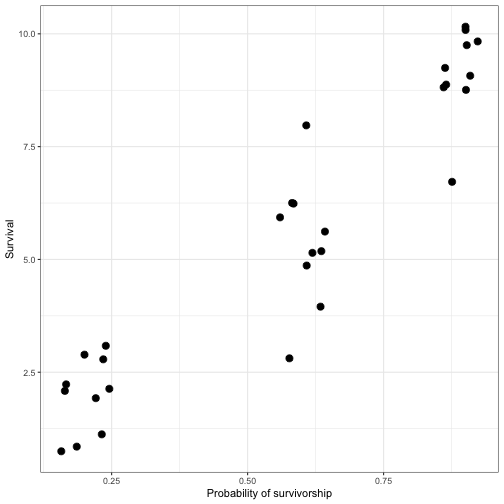
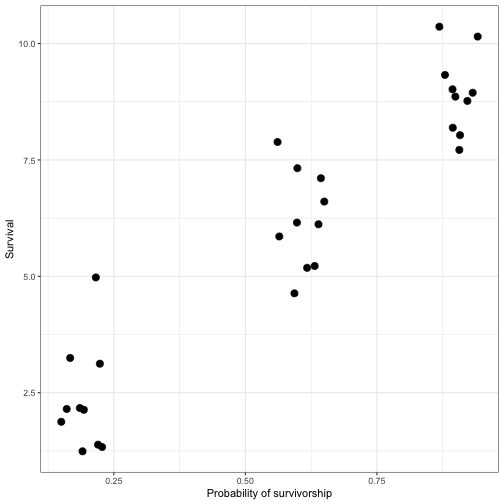
updating Bayes slides

diff --git a/Bayes.html b/Bayes.html
@@ -373,6 +373,45 @@ This is the probability of acceptance. In other words, if the ratio is better al
 * **Discussion question**: why should we accept "worse" parameter values? Why is it good to sometimes stay in the same place? 
 
 ---
+class: center 
+# Visualizing
+
+&lt;img src="Bayes_files/figure-html/unnamed-chunk-6-1.png" width="504" /&gt;
+
+---
+class: center 
+
+# Visualizing
+
+&lt;img src="Bayes_files/figure-html/unnamed-chunk-7-1.png" width="504" /&gt;
+
+---
+# quick reminder! 
+
+--
+
+* the candidate distribution is not the prior
+
+--
+
+* the candidate distribution is not the prior
+
+--
+
+* the candidate distribution makes new values but it's not the prior, you still have to put the values it produces into the likelihood and the prior
+
+---
+# Now: to math! 
+
+$$
+r = \frac{\text{Likelihood}(\text{data}|\theta^{new}) \times \text{Prior}(\theta^{new}, \alpha, \beta)}{\text{Likelihood}(\text{data}|\theta^{old}) \times \text{Prior}(\theta^{old}, \alpha, \beta)}
+$$
+
+* here I'm using `\(\alpha\)` and `\(\beta\)` to mean any prior parameters. They don't change!
+
+* plug the new candidate value into the likelihood and multiply by the prior
+
+---
 # Try it out!
 
 Use the metropolis algorithm to fit the following data on the Fictitious Leafhopper abunance on 5 plants:
@@ -395,6 +434,36 @@ y &amp;\sim \text{Poisson}(e^{\alpha}) \\
 \end{align}`
 $$
 
+_suggestion_ use as a candidate distribution `\(\text{Normal}(\theta^k, \sigma_{tune})\)`
+
+This means making your guesses with `rnorm(1, mean = old_param, sd = tune)`
+
+**Compare your result to the conjugate posterior! you should get very similar shapes**
+
+---
+# Metropolis Hastings
+
+Sometimes you need an _asymmetrical_ distribution for your parameter. This happens when the parameter is bounded. 
+
+In this case, we need to adjust our calculation of `\(r\)`. Now in addition to the Likelihood and Prior, we have the Candidate distribution getting involved
+
+$$
+\frac{[y|\theta^{new}][\theta^{new}][\theta^{old}|\theta^{new}]}
+{[y|\theta^{old}][\theta^{old}][\theta^{old}|\theta^{new}]}
+$$ 
+
+.small[
+&lt;p&gt;
+$$
+r = \frac{\text{Likelihood}(\text{data}|\theta^{new}) \times \text{Prior}(\theta^{new}, \alpha, \beta) \times \text{Candidate}(\theta^{old}, \mu = \theta^{new}, \sigma_{tune})}{\text{Likelihood}(\text{data}|\theta^{old}) \times \text{Prior}(\theta^{old}, \alpha, \beta)\times \text{Candidate}(\theta^{new}, \mu = \theta^{old}, \sigma_{tune})}
+$$
+&lt;/p&gt;
+]
+
+then finally 
+$$
+R = \text{min}( 1, r)
+$$
     </textarea>
 <style data-target="print-only">@media screen {.remark-slide-container{display:block;}.remark-slide-scaler{box-shadow:none;}}</style>
 <script src="https://remarkjs.com/downloads/remark-latest.min.js"></script>
